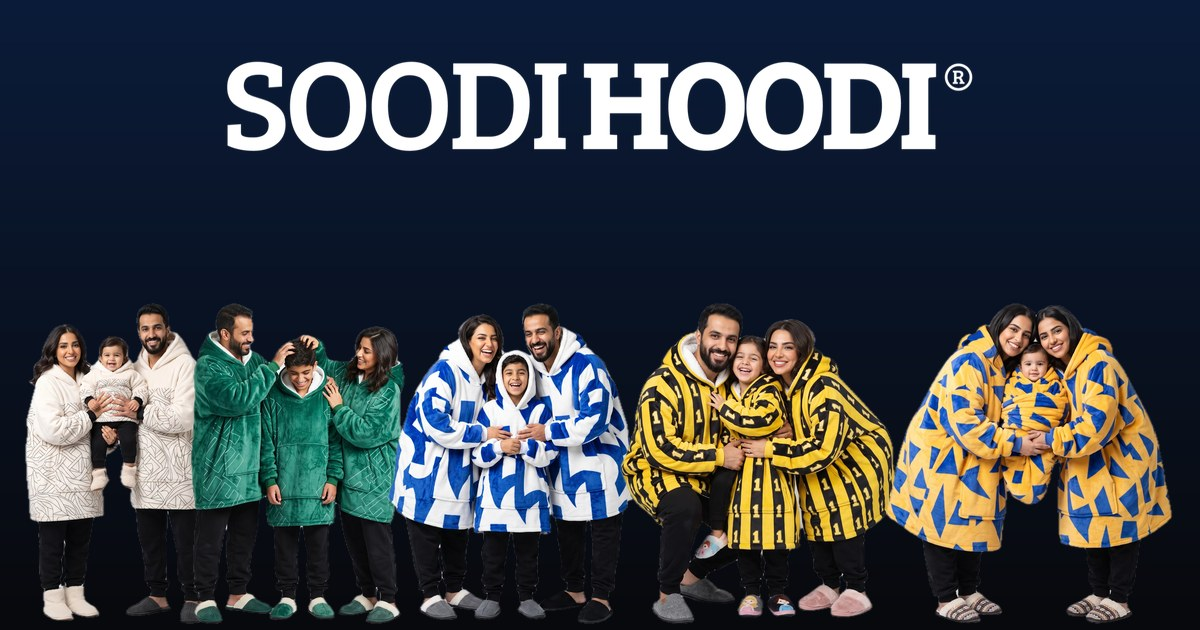
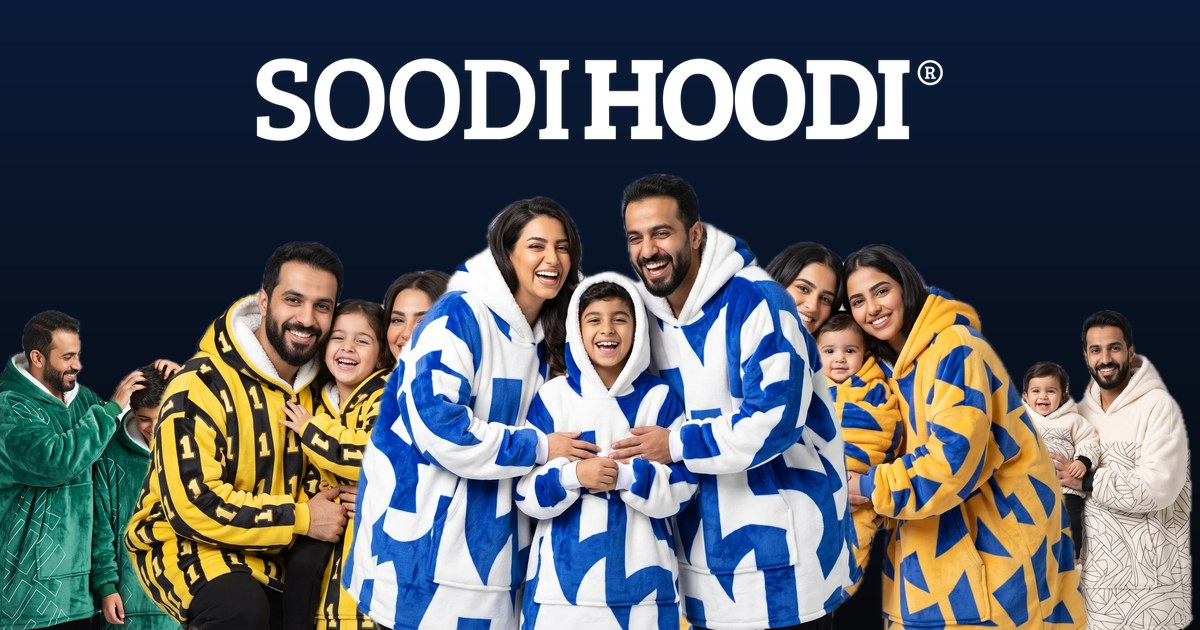
Share card v3: layered zoomed crowd composition

diff --git a/index.html b/index.html
@@ -14,8 +14,8 @@
 <meta property="og:site_name" content="SoodiHoodi — سودي هودي">
 <meta property="og:title" content="سودي هودي — مو هودي، بطانية تلبسها">
 <meta property="og:description" content="هودي بطانية واسع بألوان فريقك — يلفّك من راسك لركبتك. توصيل سريع خلال 4 أيام داخل السعودية.">
-<meta property="og:image" content="https://soodihoodi.com/img/og-image.jpg?v=2">
-<meta property="og:image:secure_url" content="https://soodihoodi.com/img/og-image.jpg?v=2">
+<meta property="og:image" content="https://soodihoodi.com/img/og-image.jpg?v=3">
+<meta property="og:image:secure_url" content="https://soodihoodi.com/img/og-image.jpg?v=3">
 <meta property="og:image:type" content="image/jpeg">
 <meta property="og:image:width" content="1200">
 <meta property="og:image:height" content="630">
@@ -23,7 +23,7 @@
 <meta name="twitter:card" content="summary_large_image">
 <meta name="twitter:title" content="سودي هودي — مو هودي، بطانية تلبسها">
 <meta name="twitter:description" content="هودي بطانية واسع بألوان فريقك — توصيل سريع خلال 4 أيام داخل السعودية.">
-<meta name="twitter:image" content="https://soodihoodi.com/img/og-image.jpg?v=2">
+<meta name="twitter:image" content="https://soodihoodi.com/img/og-image.jpg?v=3">
 
 <link rel="preconnect" href="https://fonts.googleapis.com">
 <link rel="preconnect" href="https://fonts.gstatic.com" crossorigin>
